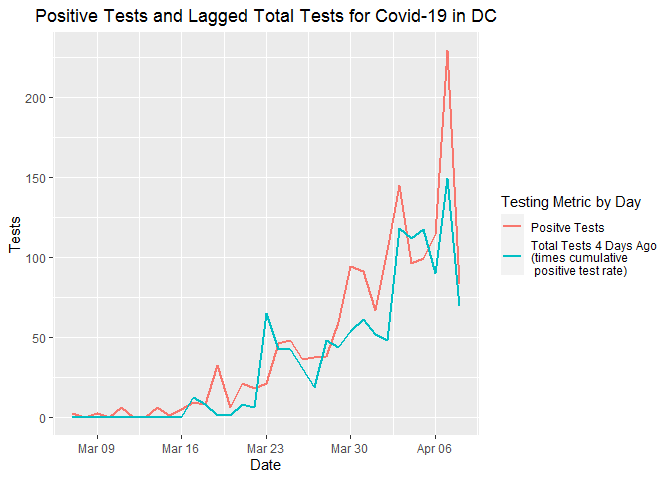
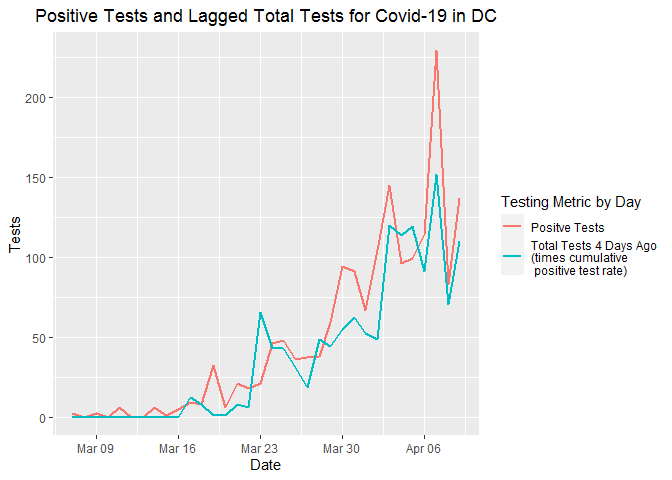
Update with 9 April data

diff --git a/Markdown/Testing_Results_Lag.md b/Markdown/Testing_Results_Lag.md
@@ -1,44 +1,46 @@
 Lag in DC Test Results
 ================
 
-## Postive Covid-19 Results in DC Lag by About Four Days
+### Postive Covid-19 Results in DC Lag by About Four Days
+
+10 April, 2020
 
 The below plot shows the number of Positive Tests in red and the number
 of New Tests (multiplied by the positive test rate) in blue. Although
 the numbers tracked pretty well early on in testing, they have diverged
-recently. The correlation coefficient is currently 0.7896354.
+recently. The correlation coefficient is currently 0.8044366.
 
 ![](Testing_Results_Lag_files/figure-gfm/same_day-1.png)<!-- -->
 
 The below plot shows the number of Positive Tests in red compared to the
 number of New Tests four days ago (times the cumulative positive test
 rate) in blue. These numbers track much better, with a current
-correlation coefficient of 0.9180961.
+correlation coefficient of 0.9247856.
 
 ![](Testing_Results_Lag_files/figure-gfm/lag_4-1.png)<!-- -->
 
 Here is the correlation matrix for those interested in such a thing.
 
     ##             Test_New   Pos_New Test_Lag_1 Test_Lag_2 Test_Lag_3 Test_Lag_4
-    ## Test_New   1.0000000 0.7896354  0.7882913  0.8306581  0.7169521  0.7388761
-    ## Pos_New    0.7896354 1.0000000  0.7052579  0.8057446  0.7763158  0.9180961
-    ## Test_Lag_1 0.7882913 0.7052579  1.0000000  0.7909807  0.8338953  0.7229599
-    ## Test_Lag_2 0.8306581 0.8057446  0.7909807  1.0000000  0.7949991  0.8384835
-    ## Test_Lag_3 0.7169521 0.7763158  0.8338953  0.7949991  1.0000000  0.8090459
-    ## Test_Lag_4 0.7388761 0.9180961  0.7229599  0.8384835  0.8090459  1.0000000
-    ## Test_Lag_5 0.6580893 0.7563592  0.7405630  0.7237436  0.8407823  0.8143756
-    ## Test_Lag_6 0.7139655 0.8512888  0.6949720  0.7777661  0.7841002  0.8428988
-    ## Test_Lag_7 0.6363658 0.8103285  0.7188805  0.6947253  0.7914377  0.7694673
+    ## Test_New   1.0000000 0.8044366  0.7895463  0.8331691  0.7154886  0.7572864
+    ## Pos_New    0.8044366 1.0000000  0.7077803  0.8070302  0.7686444  0.9247856
+    ## Test_Lag_1 0.7895463 0.7077803  1.0000000  0.7951094  0.8356549  0.7248161
+    ## Test_Lag_2 0.8331691 0.8070302  0.7951094  1.0000000  0.7969671  0.8382720
+    ## Test_Lag_3 0.7154886 0.7686444  0.8356549  0.7969671  1.0000000  0.8002385
+    ## Test_Lag_4 0.7572864 0.9247856  0.7248161  0.8382720  0.8002385  1.0000000
+    ## Test_Lag_5 0.6663326 0.7581325  0.7454738  0.7298300  0.8422834  0.8134102
+    ## Test_Lag_6 0.7263917 0.8518991  0.6661792  0.7463855  0.7298315  0.8441130
+    ## Test_Lag_7 0.6626945 0.8262093  0.7203636  0.7017611  0.7824712  0.7885645
     ##            Test_Lag_5 Test_Lag_6 Test_Lag_7
-    ## Test_New    0.6580893  0.7139655  0.6363658
-    ## Pos_New     0.7563592  0.8512888  0.8103285
-    ## Test_Lag_1  0.7405630  0.6949720  0.7188805
-    ## Test_Lag_2  0.7237436  0.7777661  0.6947253
-    ## Test_Lag_3  0.8407823  0.7841002  0.7914377
-    ## Test_Lag_4  0.8143756  0.8428988  0.7694673
-    ## Test_Lag_5  1.0000000  0.8662940  0.8495708
-    ## Test_Lag_6  0.8662940  1.0000000  0.8702399
-    ## Test_Lag_7  0.8495708  0.8702399  1.0000000
+    ## Test_New    0.6663326  0.7263917  0.6626945
+    ## Pos_New     0.7581325  0.8518991  0.8262093
+    ## Test_Lag_1  0.7454738  0.6661792  0.7203636
+    ## Test_Lag_2  0.7298300  0.7463855  0.7017611
+    ## Test_Lag_3  0.8422834  0.7298315  0.7824712
+    ## Test_Lag_4  0.8134102  0.8441130  0.7885645
+    ## Test_Lag_5  1.0000000  0.8181544  0.8460233
+    ## Test_Lag_6  0.8181544  1.0000000  0.8688375
+    ## Test_Lag_7  0.8460233  0.8688375  1.0000000
 
 A couple notes. First, the test counts for 20 March were missing so I
 averaged the 19 March and 21 March test rate. In addition, for the
